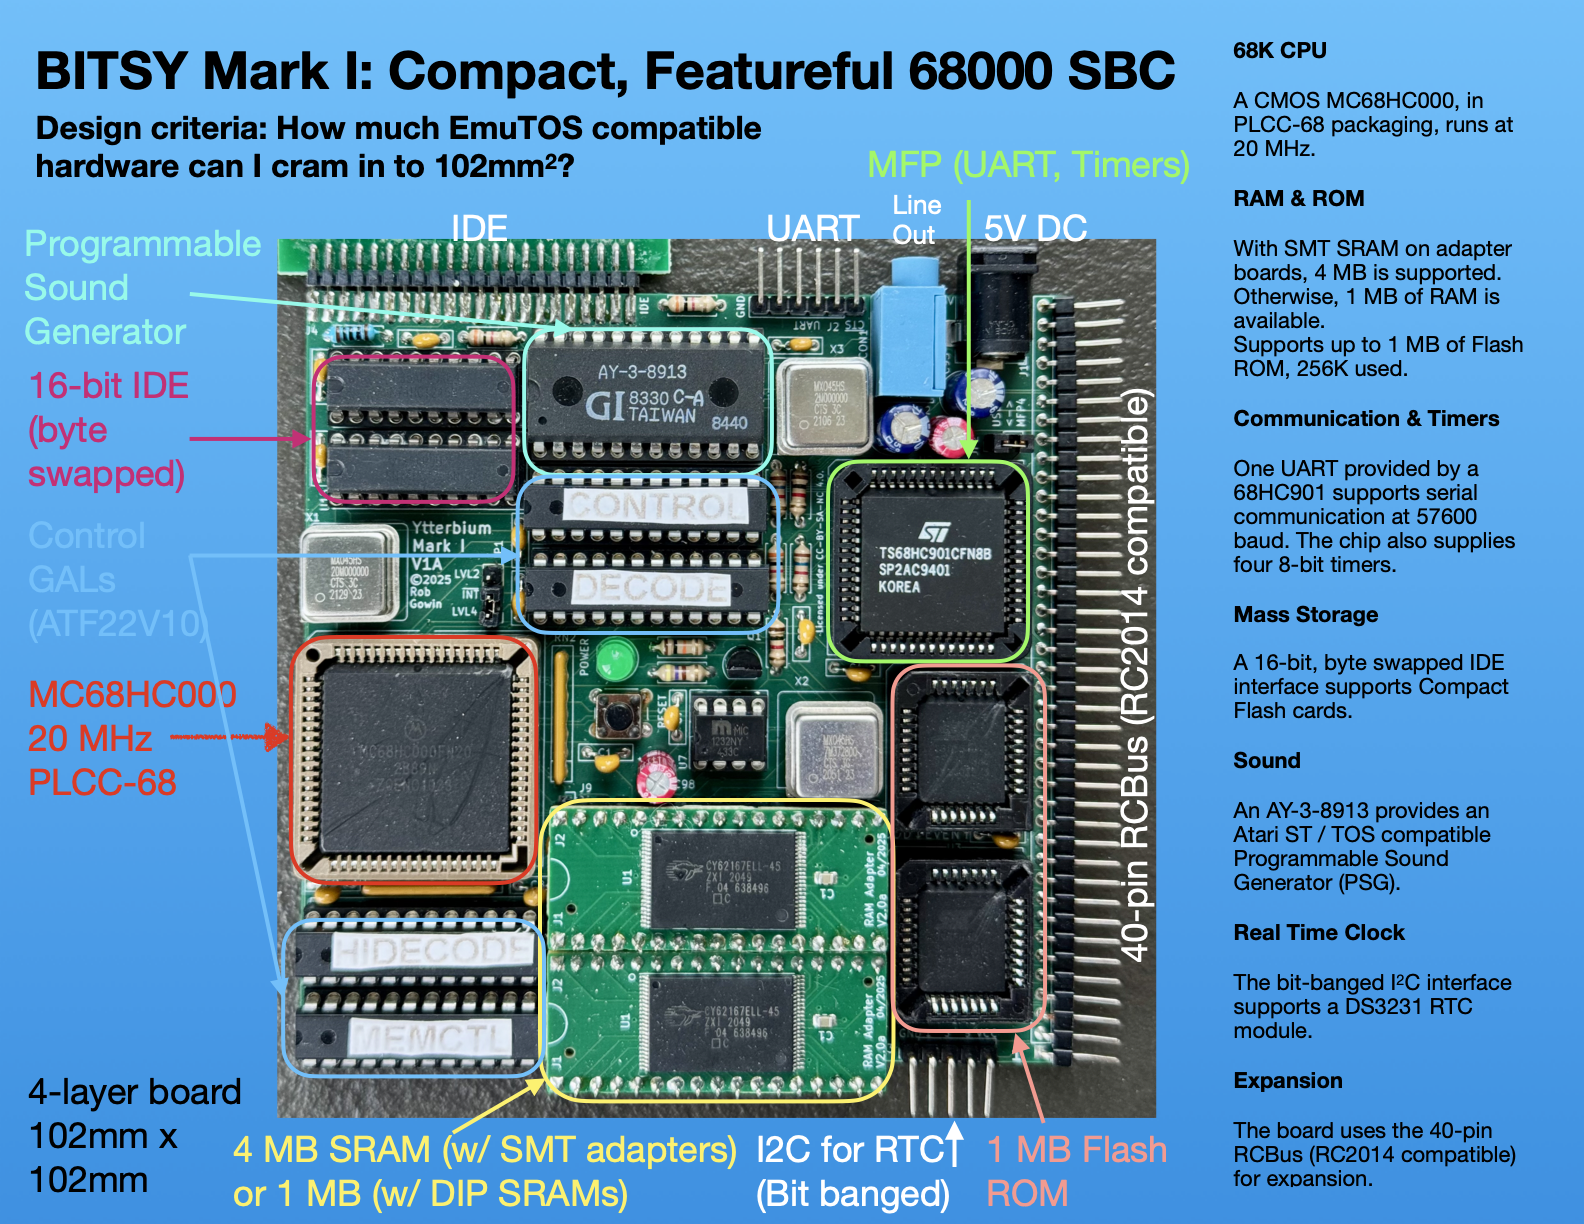
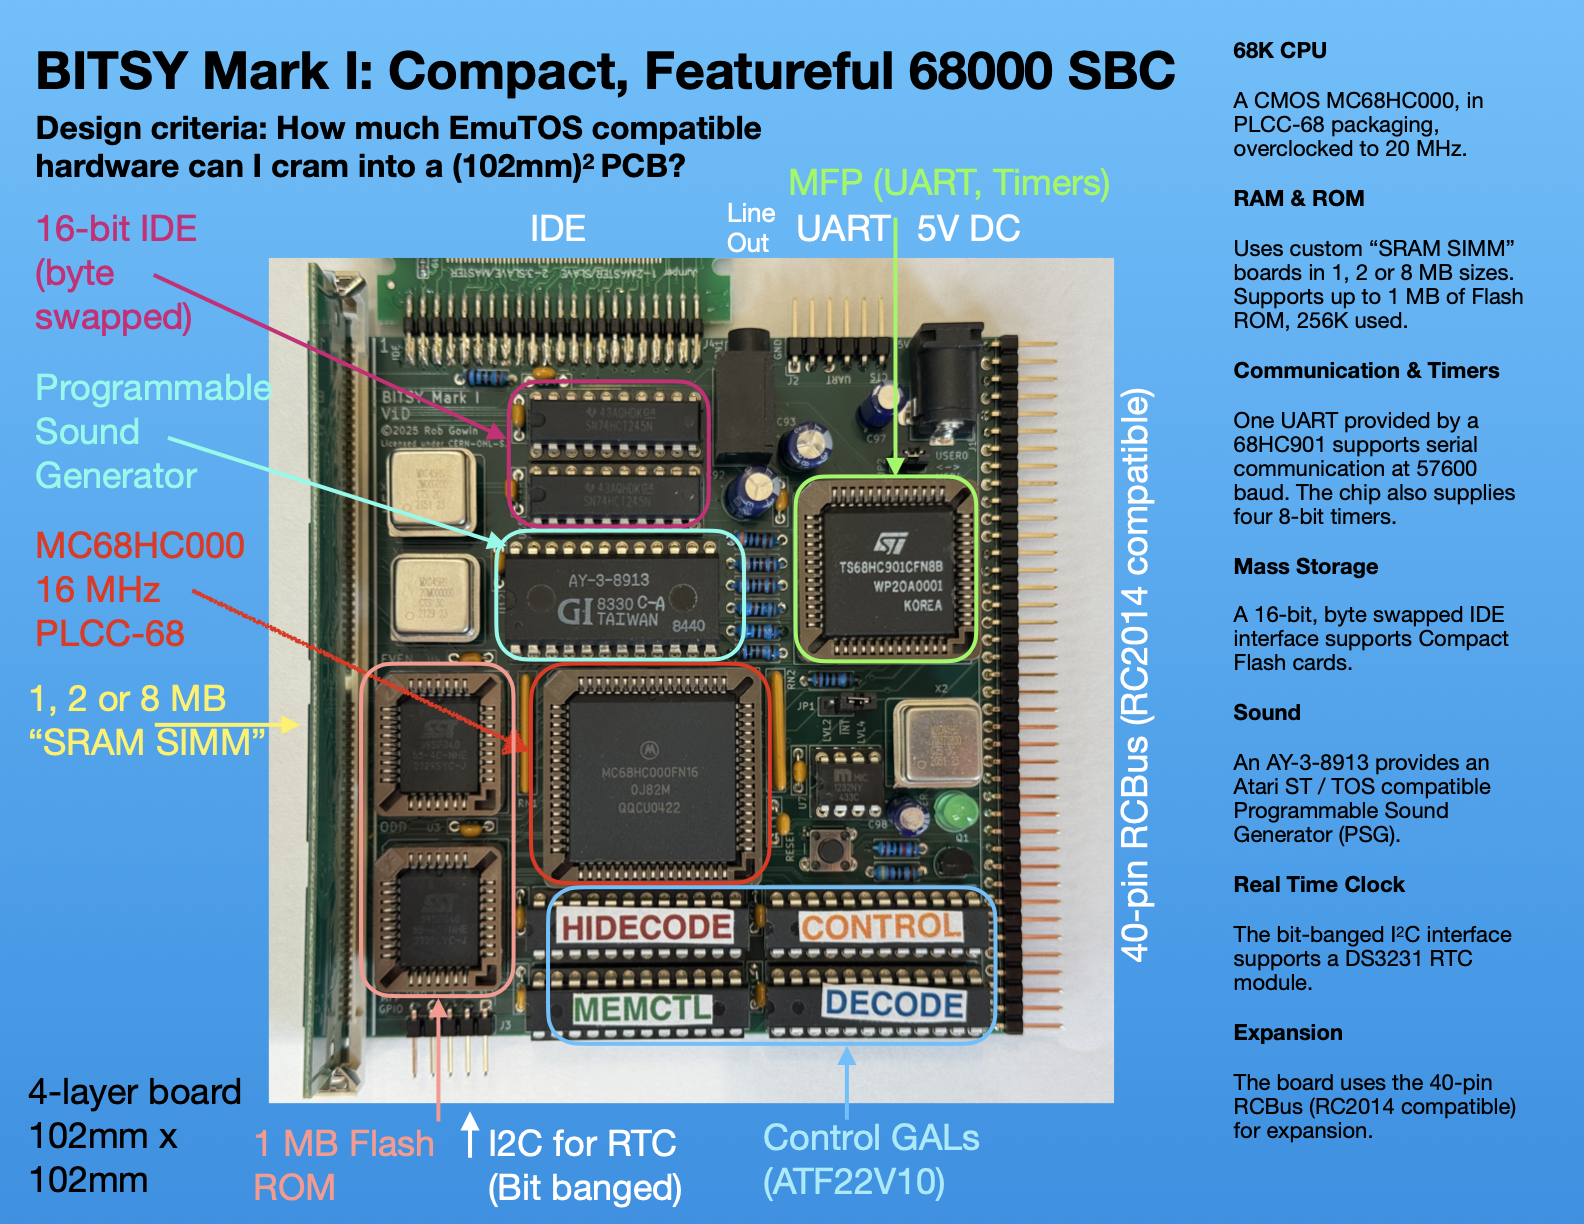
Update documentation.

diff --git a/README.md b/README.md
@@ -10,7 +10,9 @@ This SBC can also be used by itself, in EmuTOS command-line mode, using the on-b
 But please do note that it is early days for this system, so there are undiscovered bugs looming. In particular, you may see 
 occasional graphical artifacts in EmuTOS as the driver is debugged.
 
-![BITSY System](images/BITSY_system.png)
+|           ![BITSY System](images/BITSY_system.png)           |
+| :----------------------------------------------------------: |
+| Full BITSY system running [Teradesk](https://github.com/freemint/teradesk) with color icons on EmuTOS. Free memory shows 8 MB SRAM SIMM in use. |
 
 ## Table of Contents
 * [Hardware Documentation](#hardware-documentation)
@@ -55,13 +57,15 @@ The image below shows the top level schematic page. Click on it to download the 
 
 To obtain a BITSY Mark I PCB, download these [Gerbers](https://github.com/codesmythe/BITSY_MK_I/raw/refs/heads/main/BITSY_V1D.zip) for use at your preferred PCB manufacturer. I use JLCPCB.
 
-#### SRAM choice (FIXME! OBSOLETE)
+#### SRAM choice
 
-The board can use two standard 32-pin DIP 512KBx8 SRAM chips, such as the AS6C4008-55PCN SRAM for a total of 1MB of RAM.
-The board has also been designed to accomodate special boards which adapt an SMT 2MBx8 SRAM to a 34-pin DIP footprint for a 
-total of 4MB of RAM. So one build option to use standard 32-pin DIP sockets and add two single-pin female pin sockets
-to accomodate the two extra pins required by the 34-pin DIP board. Another option is to use two 17-pin SIP sockets for the 
-SRAM which will also work for either configuration.
+This board uses a custom "SRAM SIMM" that is available in three sizes. These SRAM SIMM are static RAM chips mounted on a board that plugs into the 72-pin SIMM socket on the board. Though these may look sort of like DRAM SIMMs, only these special static RAM boards are supported. There are three sizes currently available in [this](xxx) repository: 
+
+* a 1 MB through hole version
+* a 2 MB surface mount version that uses SRAMs with a 1.27mm pitch
+* an 8 MB surface mount version that uses SRAMs with a 0.5mm pitch
+
+The 1 MB through hole version is a good choice to start with, as it is inexpensive and easy to solder. If you end up using the system regularly, I'd suggest upgrading to the 2 MB or 8 MB versions. I am able to hand solder the 2 MB version, and I have the 8 MB version assembled by JLCPCB. This latter option is not inexpensive though! See the linked repository for design files, bill of materials, etc. 
 
 | Component Type     | Reference          | Qty | Description                                                     | Part                                                                                     |
 | ------------------ | ------------------ | --- | --------------------------------------------------------------- | ---------------------------------------------------------------------------------------- |
